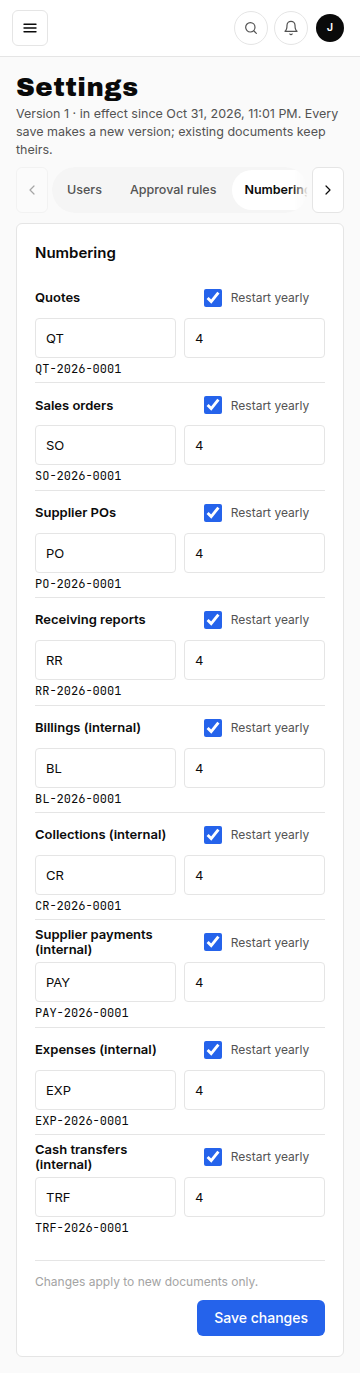
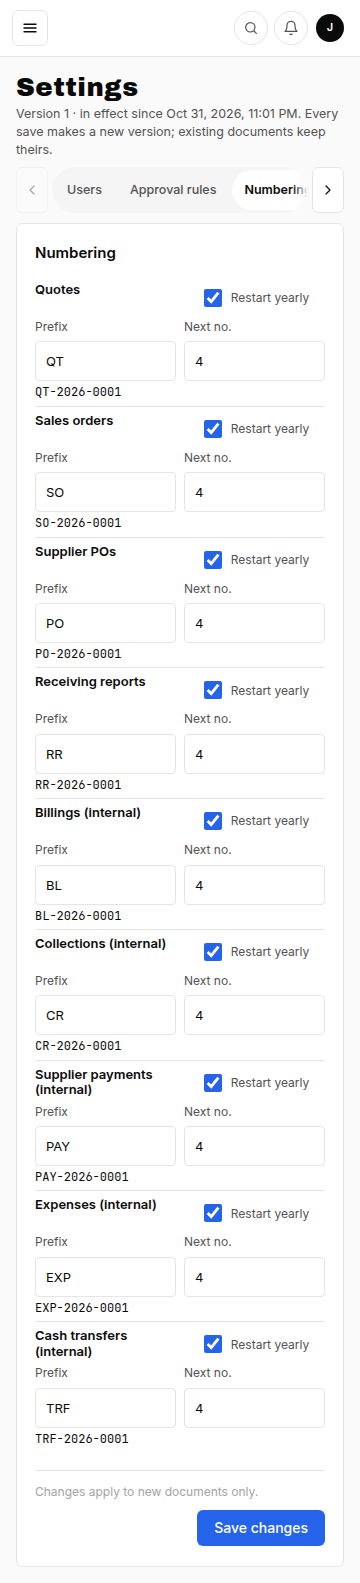
Settings pass 6: Prefix and Next no. labels on phone cards
Show small grey field labels above Prefix and Next no. inputs on
numbering cards below 640px, each linked via htmlFor. Desktop table
unchanged (labels stay visually hidden).

diff --git a/src/app/globals.css b/src/app/globals.css
@@ -1427,6 +1427,18 @@ tr.inactive .cell-primary .sub {
   color: var(--text);
   background: transparent;
 }
+/* Desktop: table headers name the columns; keep labels for a11y + phone cards. */
+.numbering-field-label {
+  position: absolute;
+  width: 1px;
+  height: 1px;
+  padding: 0;
+  margin: -1px;
+  overflow: hidden;
+  clip: rect(0, 0, 0, 0);
+  white-space: nowrap;
+  border: 0;
+}
 
 /* Withholding: Code/Label/Applies full text; Note narrow + wraps; rows ≤48px.
  * Beat later .edit-table table.list td padding/align with equal-or-higher specificity. */
@@ -4958,7 +4970,7 @@ button.contact-card-add {
     grid-template-columns: minmax(0, 1fr) minmax(0, 1fr);
     column-gap: 8px;
     row-gap: 4px;
-    align-items: center;
+    align-items: start;
     padding: 6px 0;
     border-bottom: 1px solid var(--border);
   }
@@ -5006,6 +5018,20 @@ button.contact-card-add {
   .numbering-digits {
     grid-column: 2;
     grid-row: 2;
+  }
+  .numbering-field-label {
+    position: static;
+    width: auto;
+    height: auto;
+    padding: 0;
+    margin: 0 0 6px;
+    overflow: visible;
+    clip: auto;
+    white-space: normal;
+    border: 0;
+    display: block;
+    font-size: 12px;
+    color: var(--text-2);
   }
   .numbering-prefix input,
   .numbering-digits input {

diff --git a/src/app/(app)/settings/NumberingForm.tsx b/src/app/(app)/settings/NumberingForm.tsx
@@ -102,8 +102,8 @@ export function NumberingForm({
                       </label>
                     </td>
                     <td className={`numbering-prefix${e[prefixName] ? " has-error" : ""}`} data-label="Prefix">
-                      <label className="sr-only" htmlFor={prefixName}>
-                        Prefix for {d.label}
+                      <label className="numbering-field-label" htmlFor={prefixName}>
+                        Prefix
                       </label>
                       <input
                         id={prefixName}
@@ -119,8 +119,8 @@ export function NumberingForm({
                       )}
                     </td>
                     <td className={`numbering-digits${e[paddingName] ? " has-error" : ""}`} data-label="Next no.">
-                      <label className="sr-only" htmlFor={paddingName}>
-                        Counter digits for {d.label}
+                      <label className="numbering-field-label" htmlFor={paddingName}>
+                        Next no.
                       </label>
                       <input
                         id={paddingName}

diff --git a/docs/screenshots/settings-layout-08/README.md b/docs/screenshots/settings-layout-08/README.md
@@ -6,7 +6,7 @@ Local throwaway DB only (`jerwin@example.com` seed). Full-page shots at real pag
 |---|---:|---:|---:|
 | users | 900 | 1411 | 360 |
 | approval | 900 | 900 | 360 |
-| numbering | 928 | 1373 | 360 |
+| numbering | 928 | 1583 | 360 |
 | tax | 1139 | 1536 | 360 |
 | tax-calendar | 942 | 2238 | 360 |
 | withholding | 900 | 1771 | 360 |
